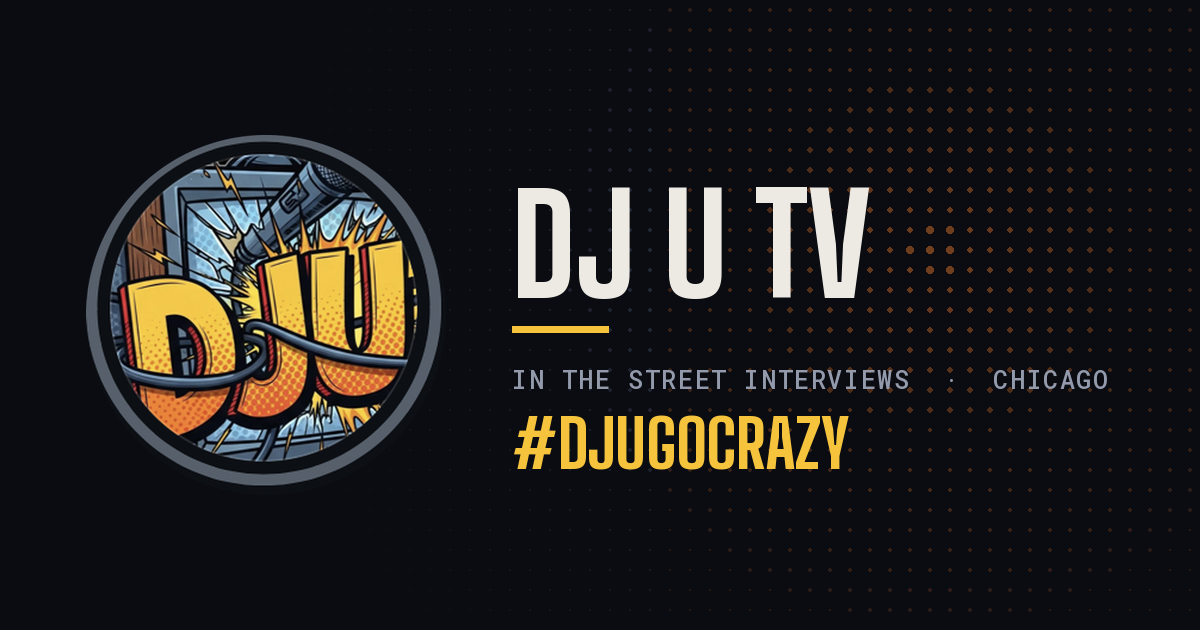
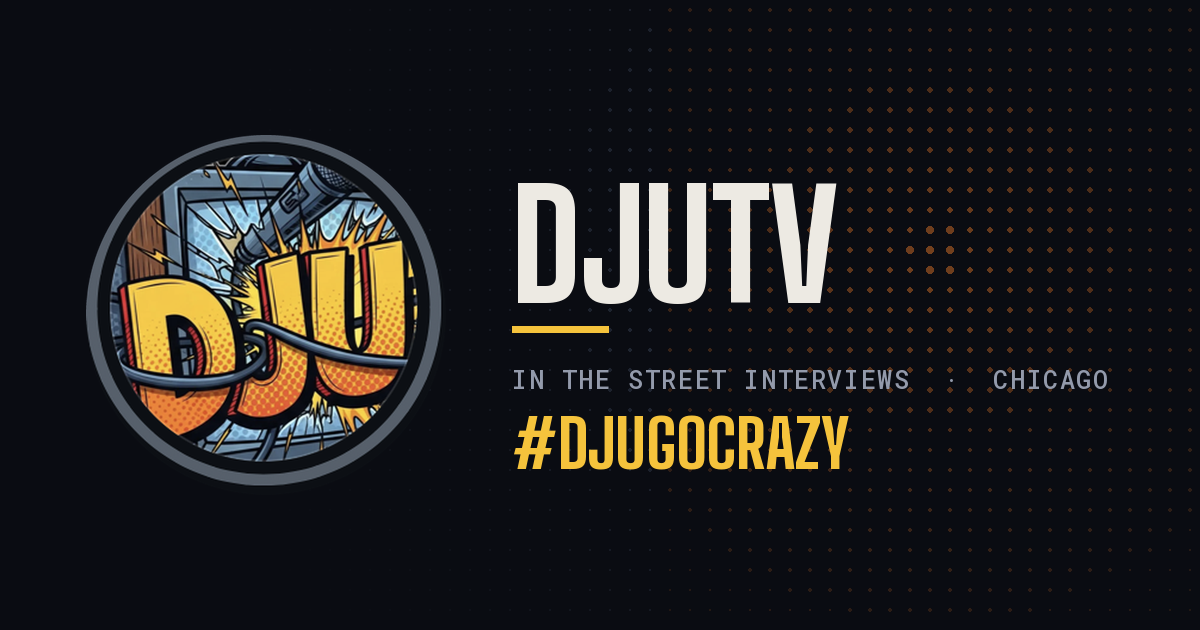
Write the brand as DJUTV throughout and add Google tags
Reverts the spaced-out "DJ U TV" back to the closed-up DJUTV the channel
actually uses, across the page copy, metadata, structured data, mail subject
and README. The share card had the old form rendered into the image itself,
so it is regenerated. Two fixes the rename needed on top of the substitution:
schema.org name and alternateName had collapsed to the same string, so
alternateName is now the Instagram display name, and the README's naming rule
had become a sentence that said the same thing twice.

Adds Google Analytics and AdSense behind two empty ID constants in main.js.
Both stay inert while empty — no request to Google, no cookie — so the repo
carries no broken or invented tag while the real IDs live in accounts only
the owner can open.

Pageviews alone would say almost nothing about a single page, so analytics
also records the three things worth knowing: video_play with the video's ID
and title, booking_click labelled email or instagram, and outbound_click
labelled with the destination host. These route through a track() helper that
no-ops when analytics is off.

AdSense is wired for auto ads so placement stays a dashboard setting rather
than a code change. The README records the two remaining blockers, neither of
them code: the site must pass AdSense review, and ads.txt must carry the real
publisher ID — deliberately not committed as a placeholder, since a wrong ID
there is a false ownership claim.
[…]

Changed region(s): [[0.4317, 0.2714, 0.74, 0.4825]]

diff --git a/index.html b/index.html
@@ -3,21 +3,21 @@
 <head>
 <meta charset="utf-8">
 <meta name="viewport" content="width=device-width, initial-scale=1">
-<title>DJ U TV — In the Street Interviews from Chicago</title>
-<meta name="description" content="DJ U TV is Chicago's in-the-street interview channel — exclusive conversations with entertainers, entrepreneurs and community leaders since 2015. #DJUGOCRAZY. Watch, listen and book.">
+<title>DJUTV — In the Street Interviews from Chicago</title>
+<meta name="description" content="DJUTV is Chicago's in-the-street interview channel — exclusive conversations with entertainers, entrepreneurs and community leaders since 2015. #DJUGOCRAZY. Watch, listen and book.">
 <meta name="theme-color" content="#0A0C12">
 <link rel="canonical" href="https://djugocrazy.com/">
 
 <meta property="og:type" content="website">
-<meta property="og:site_name" content="DJ U TV">
+<meta property="og:site_name" content="DJUTV">
 <meta property="og:url" content="https://djugocrazy.com/">
-<meta property="og:title" content="DJ U TV — In the Street Interviews from Chicago">
+<meta property="og:title" content="DJUTV — In the Street Interviews from Chicago">
 <meta property="og:description" content="Exclusive in-the-street interviews with entertainers, entrepreneurs and community leaders. Chicago. Since 2015. #DJUGOCRAZY">
 <meta property="og:image" content="https://djugocrazy.com/assets/img/og-card.png">
 <meta property="og:image:type" content="image/png">
 <meta property="og:image:width" content="1200">
 <meta property="og:image:height" content="630">
-<meta property="og:image:alt" content="DJ U TV — in the street interviews, Chicago. #DJUGOCRAZY">
+<meta property="og:image:alt" content="DJUTV — in the street interviews, Chicago. #DJUGOCRAZY">
 <meta name="twitter:card" content="summary_large_image">
 <meta name="twitter:image" content="https://djugocrazy.com/assets/img/og-card.png">
 
@@ -34,8 +34,8 @@
 {
   "@context": "https://schema.org",
   "@type": "Organization",
-  "name": "DJ U TV",
-  "alternateName": "DJUTV",
+  "name": "DJUTV",
+  "alternateName": "DJU WYO GANG",
   "slogan": "DJUGOCRAZY",
   "url": "https://djugocrazy.com/",
   "description": "Exclusive in-the-street interviews with entertainers, entrepreneurs and community leaders based in Chicago.",
@@ -94,14 +94,14 @@
       <div class="hero__copy">
         <p class="eyebrow"><svg class="star" aria-hidden="true"><use href="#star6"></use></svg> Chicago · Est. October 2015</p>
         <h1 class="hero__title">In the street<br><em>interviews.</em></h1>
-        <p class="hero__lede">Exclusive conversations with the entertainers, entrepreneurs and community leaders shaping Chicago — recorded where the story actually happens, by <strong>DJ U TV</strong>.</p>
+        <p class="hero__lede">Exclusive conversations with the entertainers, entrepreneurs and community leaders shaping Chicago — recorded where the story actually happens, by <strong>DJUTV</strong>.</p>
         <div class="hero__actions">
           <a class="btn btn--gold" href="https://www.youtube.com/@DJUTV" target="_blank" rel="noopener">Watch on YouTube</a>
           <a class="btn btn--ghost" href="#booking">Book an interview</a>
         </div>
       </div>
       <div class="hero__badge">
-        <img src="assets/img/dju-logo.png" alt="DJ U TV logo" width="380" height="380" loading="eager">
+        <img src="assets/img/dju-logo.png" alt="DJUTV logo" width="380" height="380" loading="eager">
         <p class="slogan">#DJUGOCRAZY</p>
       </div>
     </div>
@@ -232,7 +232,7 @@
       <div class="about__main">
         <p class="eyebrow"><svg class="star" aria-hidden="true"><use href="#star6"></use></svg> About</p>
         <h2 class="section__title">The mic goes where the story is</h2>
-        <p class="prose">DJ U TV started in October 2015 with a simple premise: Chicago&rsquo;s stories are best told by the people living them, on their own block, in their own words. A decade and more than 1,500 interviews later, that premise has held.</p>
+        <p class="prose">DJUTV started in October 2015 with a simple premise: Chicago&rsquo;s stories are best told by the people living them, on their own block, in their own words. A decade and more than 1,500 interviews later, that premise has held.</p>
         <p class="prose">Host <strong>DJ U</strong> works as a journalist first. He puts people on record before anyone else is asking, then follows the threads that matter to the city long after the news cycle moves on: courtrooms, families, neighborhoods, the aftermath. That is why an audience of 421,000 keeps coming back, and why the archive has been watched more than 152 million times.</p>
         <p class="prose">No press junket. No handlers.</p>
       </div>
@@ -252,7 +252,7 @@
     <div class="wrap">
       <header class="section__head">
         <p class="eyebrow"><svg class="star" aria-hidden="true"><use href="#star6"></use></svg> Follow</p>
-        <h2 class="section__title">Every place DJ U TV posts</h2>
+        <h2 class="section__title">Every place DJUTV posts</h2>
       </header>
       <ul class="socials">
         <li class="social social--lead">
@@ -324,7 +324,7 @@
       <a href="https://www.threads.net/@_djutv" target="_blank" rel="noopener">Threads</a>
     </nav>
     <p class="footer__slogan">#DJUGOCRAZY</p>
-    <p class="footer__legal">&copy; <span data-year>2026</span> DJ U TV. All interviews and footage remain the property of DJ U TV.</p>
+    <p class="footer__legal">&copy; <span data-year>2026</span> DJUTV. All interviews and footage remain the property of DJUTV.</p>
   </div>
 </footer>
 

diff --git a/assets/js/main.js b/assets/js/main.js
@@ -2,7 +2,43 @@
    button rather than leaving a dead mailto: on the page. */
 const BOOKING_EMAIL = "booking@djugocrazy.com";
 
+/* Google IDs — paste the real values in to switch each service on.
+   While a value is empty nothing is requested from Google and no cookie is
+   set, so the site stays clean rather than shipping a broken tag. */
+const GA4_MEASUREMENT_ID = "";      // Google Analytics, looks like "G-XXXXXXXXXX"
+const ADSENSE_PUBLISHER_ID = "";    // AdSense, looks like "ca-pub-0000000000000000"
+
 const reduceMotion = window.matchMedia("(prefers-reduced-motion: reduce)").matches;
+
+/* ---- Google Analytics ---- */
+if (GA4_MEASUREMENT_ID) {
+  const tag = document.createElement("script");
+  tag.async = true;
+  tag.src = "https://www.googletagmanager.com/gtag/js?id=" + GA4_MEASUREMENT_ID;
+  document.head.append(tag);
+
+  window.dataLayer = window.dataLayer || [];
+  window.gtag = function () { window.dataLayer.push(arguments); };
+  window.gtag("js", new Date());
+  window.gtag("config", GA4_MEASUREMENT_ID);
+}
+
+/* One page means pageviews say almost nothing. These three events are the
+   questions worth answering: do people watch, book, or follow? */
+function track(event, params) {
+  if (window.gtag) window.gtag("event", event, params);
+}
+
+/* ---- Google AdSense ----
+   Auto ads: placement and density are controlled from the AdSense dashboard,
+   so changing them never needs a code change. */
+if (ADSENSE_PUBLISHER_ID) {
+  const tag = document.createElement("script");
+  tag.async = true;
+  tag.crossOrigin = "anonymous";
+  tag.src = "https://pagead2.googlesyndication.com/pagead/js/adsbygoogle.js?client=" + ADSENSE_PUBLISHER_ID;
+  document.head.append(tag);
+}
 
 /* ---- current year ---- */
 const yearEl = document.querySelector("[data-year]");
@@ -13,10 +49,23 @@ const bookingActions = document.querySelector("[data-booking-actions]");
 if (bookingActions && BOOKING_EMAIL) {
   const mail = document.createElement("a");
   mail.className = "btn btn--ghost";
-  mail.href = "mailto:" + BOOKING_EMAIL + "?subject=" + encodeURIComponent("DJ U TV interview request");
+  mail.href = "mailto:" + BOOKING_EMAIL + "?subject=" + encodeURIComponent("DJUTV interview request");
   mail.textContent = "Email booking";
   bookingActions.append(mail);
 }
+if (bookingActions) {
+  bookingActions.addEventListener("click", (e) => {
+    const link = e.target.closest("a");
+    if (link) track("booking_click", { method: link.protocol === "mailto:" ? "email" : "instagram" });
+  });
+}
+
+/* ---- follow clicks ---- */
+document.querySelectorAll(".socials a, .platforms a").forEach((link) => {
+  link.addEventListener("click", () => {
+    track("outbound_click", { destination: new URL(link.href).hostname.replace(/^www\./, "") });
+  });
+});
 
 /* ---- seamless ticker ----
    The CSS loop translates the track by -50%, so the marquee only lines up
@@ -45,6 +94,7 @@ document.querySelectorAll("[data-video]").forEach((item) => {
     button.replaceChildren(frame);
     button.disabled = true;
     button.style.cursor = "default";
+    track("video_play", { video_id: id, video_title: item.querySelector("h3")?.textContent.trim() });
   }, { once: true });
 });
 

diff --git a/README.md b/README.md
@@ -1,6 +1,6 @@
 # DJUTV
 
-The website for **DJ U TV** — Chicago's in-the-street interview channel, hosted by DJ U. Exclusive
+The website for **DJUTV** — Chicago's in-the-street interview channel, hosted by DJ U. Exclusive
 conversations with entertainers, entrepreneurs and community leaders, running since October 2015.
 The slogan is **#DJUGOCRAZY**.
 
@@ -43,7 +43,7 @@ matter and are easy to get wrong:
 ```
 index.html              the whole page
 assets/css/styles.css   design tokens + all component styles
-assets/js/main.js       click-to-play embeds, halftone canvas, ticker, booking CTA
+assets/js/main.js       Google tags, click-to-play embeds, halftone canvas, ticker, booking CTA
 assets/img/             logo (full, small, favicon) + the link-preview card
 CNAME                   claims djugocrazy.com for GitHub Pages
 .nojekyll               serve the files as-is instead of running them through Jekyll
@@ -51,14 +51,11 @@ CNAME                   claims djugocrazy.com for GitHub Pages
 
 ## Naming
 
-The brand is written two ways on purpose, so keep them straight when editing:
+The brand is **DJUTV**, written closed up everywhere — page title, headings, body copy, structured
+data, the wordmark beside the logo, and the share card. Not "DJ U TV". The host is **DJ U**.
 
-- **DJ U TV** in prose and metadata — the page title, headings, body copy, structured data.
-- **DJUTV** only as the compact wordmark beside the logo (header and footer), and wherever it is a
-  literal handle or URL: `@DJUTV`, `facebook.com/DJUTV`.
-
-The host is **DJ U**. Earlier drafts credited a "DJ Univercity"; that name was wrong and should not
-reappear.
+Two names have already been through a correction and should not come back: "DJ Univercity" was
+never right, and a spaced-out "DJ U TV" was used briefly before being reverted.
 
 ## Keeping it current
 
@@ -113,6 +110,44 @@ emptied, not left in place.
 The address is not a mailbox. Cloudflare Email Routing forwards it to a personal inbox, which means
 mail can be received but not sent from it — replies come from whatever inbox it forwards to. Its
 DNS records live in the Cloudflare zone alongside the site's.
+
+## Analytics and ads
+
+`GA4_MEASUREMENT_ID` and `ADSENSE_PUBLISHER_ID` sit at the top of `assets/js/main.js`, both empty.
+Paste a real ID in and that service switches on; leave it empty and nothing is requested from
+Google and no cookie is set. Neither is wired yet — the IDs come from accounts only the owner can
+open.
+
+**Analytics.** Create a GA4 property at analytics.google.com for `djugocrazy.com` and copy the
+Measurement ID (`G-` followed by ten characters) into `GA4_MEASUREMENT_ID`.
+
+Pageviews on a single-page site say very little, so three custom events carry the useful signal:
+
+- `video_play` — fires when someone actually clicks a video, with its ID and title, so it is
+  visible which interviews pull people in.
+- `booking_click` — fires on the booking CTAs, labelled `email` or `instagram`.
+- `outbound_click` — fires on the follow and podcast links, labelled with the destination host.
+
+They are sent through a `track()` helper that does nothing when analytics is off, so the page
+behaves identically either way.
+
+**Ads.** AdSense is set up for **auto ads**: the one script is loaded with the publisher ID, and
+placement and density are then controlled from the AdSense dashboard, so tuning them never needs a
+code change. Manual ad units would mean hard-coding a slot ID per placement, which is worth doing
+only if auto placement proves too intrusive for the design.
+
+Two things are required before ads will actually serve, and neither is a code change:
+
+- **Approval.** The site has to be added and reviewed in AdSense; the tag earns nothing until it
+  passes. Google also expects a privacy policy disclosing cookie use, which this site does not yet
+  have.
+- **`ads.txt`.** Create a file named `ads.txt` at the repository root containing one line —
+  `google.com, pub-0000000000000000, DIRECT, f08c47fec0942fa0`, with the publisher ID digits in
+  place of the zeros. It is deliberately not committed with a placeholder, because an `ads.txt`
+  with the wrong ID is treated as a real claim and is worse than having none.
+
+Both services set cookies, so EU visitors need a consent prompt. AdSense has a built-in consent
+message that covers both — turn it on under Privacy & messaging rather than building one here.
 
 ## Design notes
 
